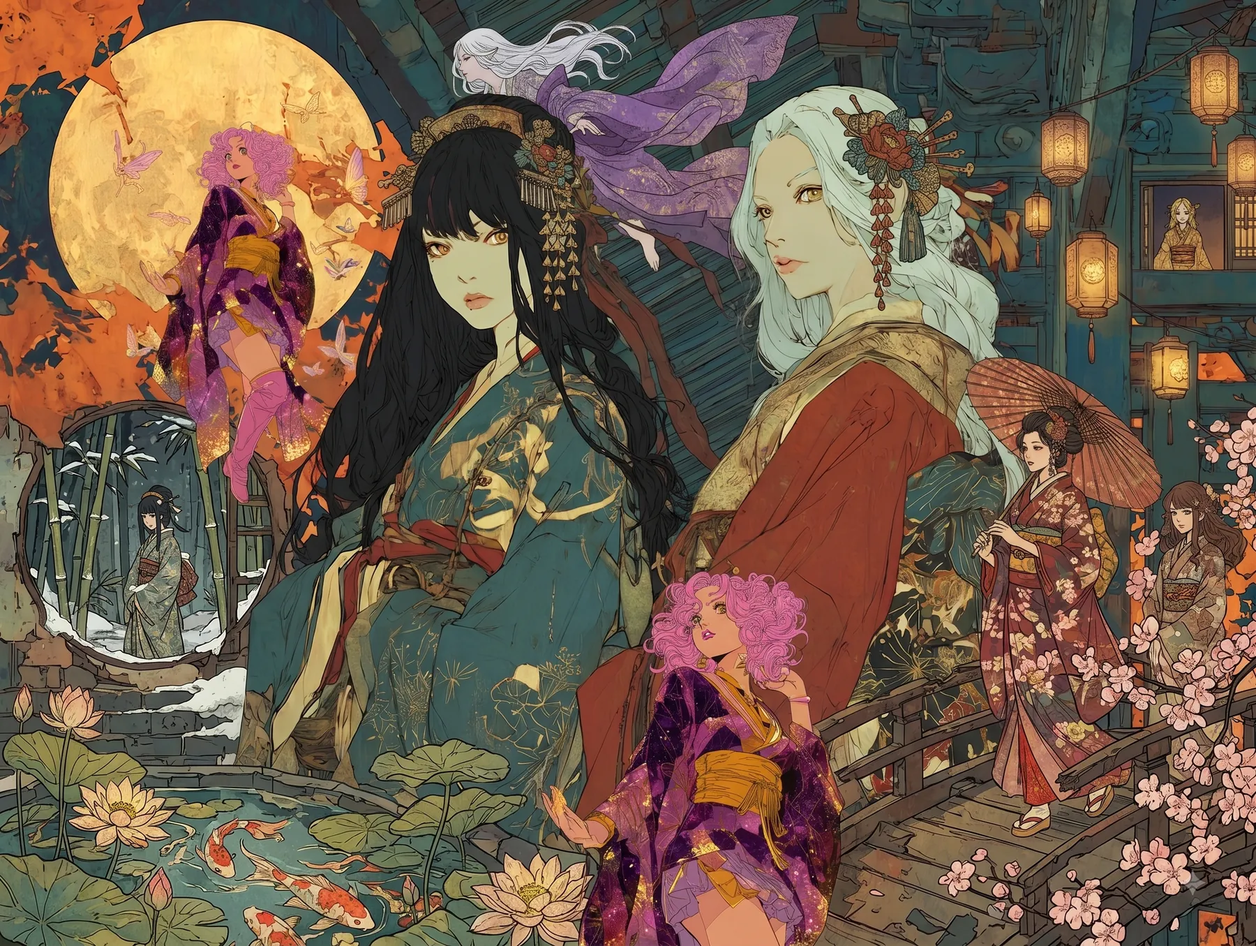
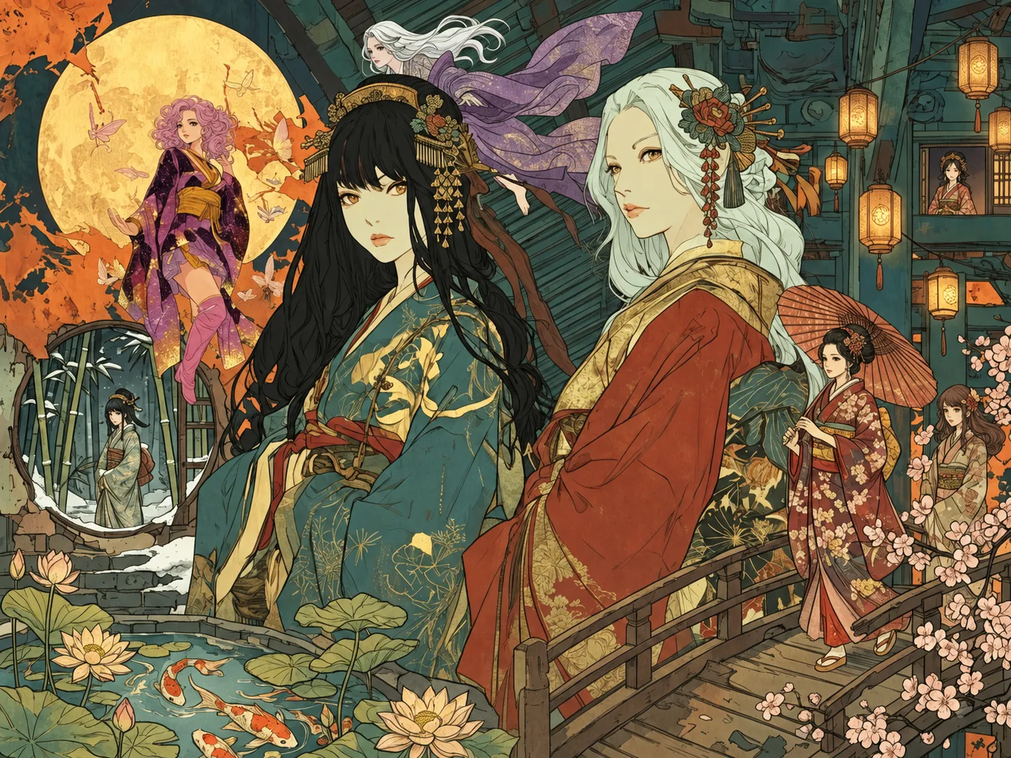
feat(site): 首页 03 PROJECT 区块换上 MOONDOLLZ 概念插画
替换 public/site/moondollz-group.webp，图位路径/alt/接线代码不变。

diff --git a/src/lib/changelog/entries.ts b/src/lib/changelog/entries.ts
@@ -27,6 +27,18 @@ export interface DailyChangelog {
 
 export const CHANGELOG: DailyChangelog[] = [
   {
+    date: '2026-09-02',
+    items: [
+      {
+        kind: 'feat',
+        scope: '对外官网',
+        title: '首页 03 PROJECT 区块换上 MOONDOLLZ 概念插画',
+        details:
+          '首页「PROJECT / MOONDOLLZ」区块的配图换成新的月夜和装主题插画，其余文案与排版不变。',
+      },
+    ],
+  },
+  {
     date: '2026-09-01',
     items: [
       {
